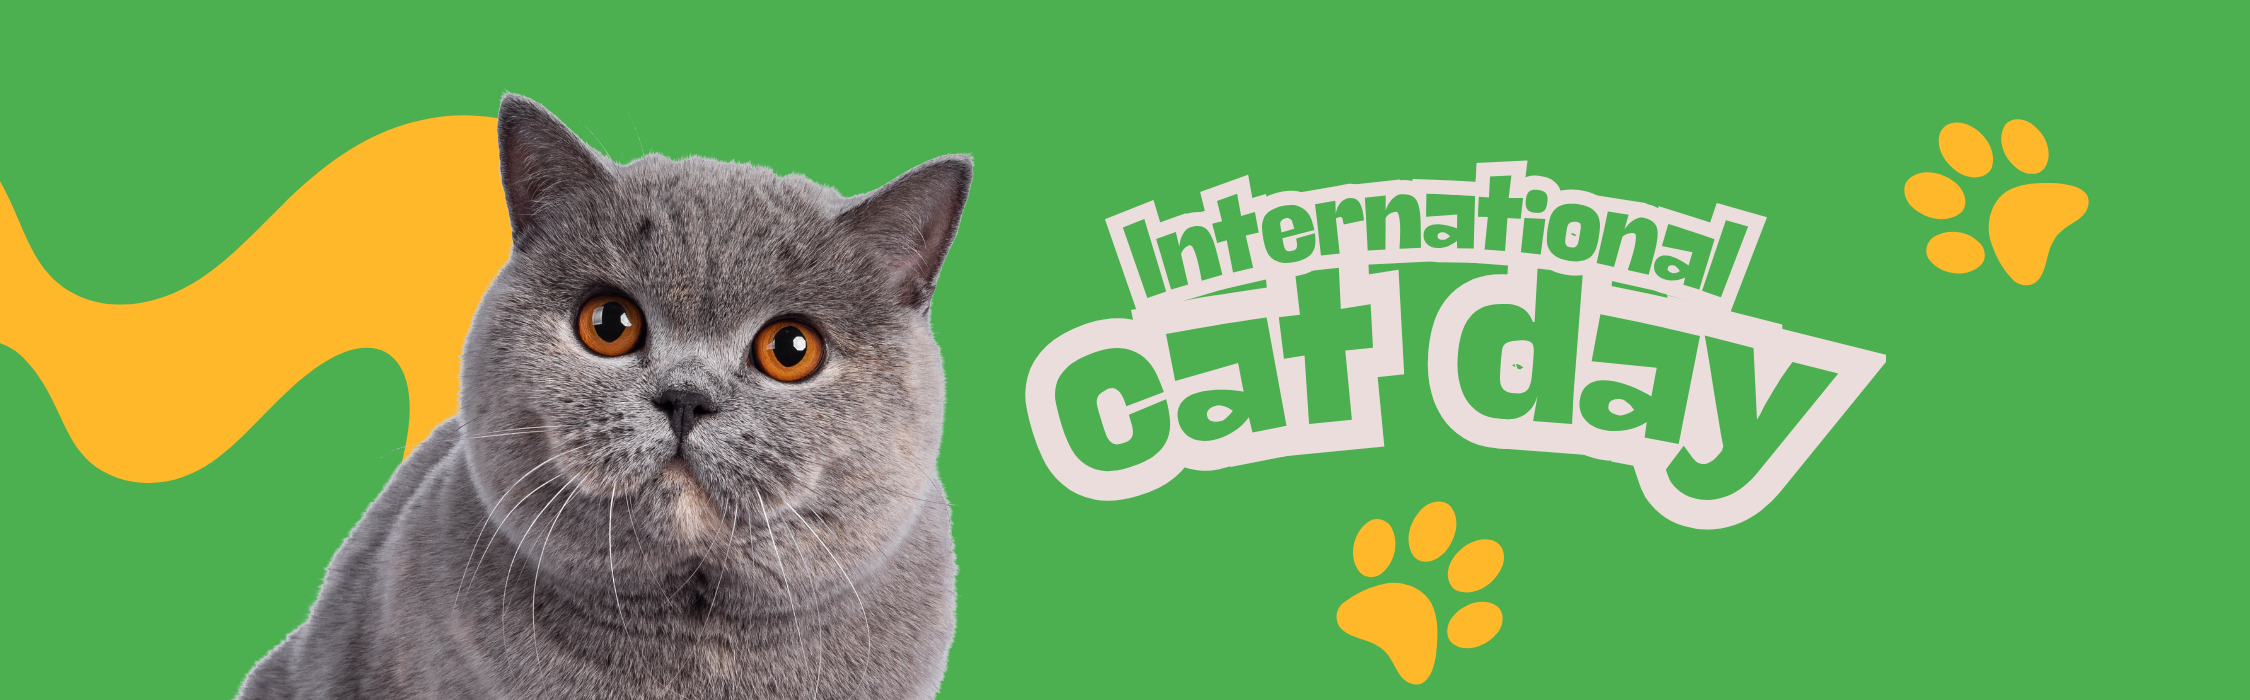
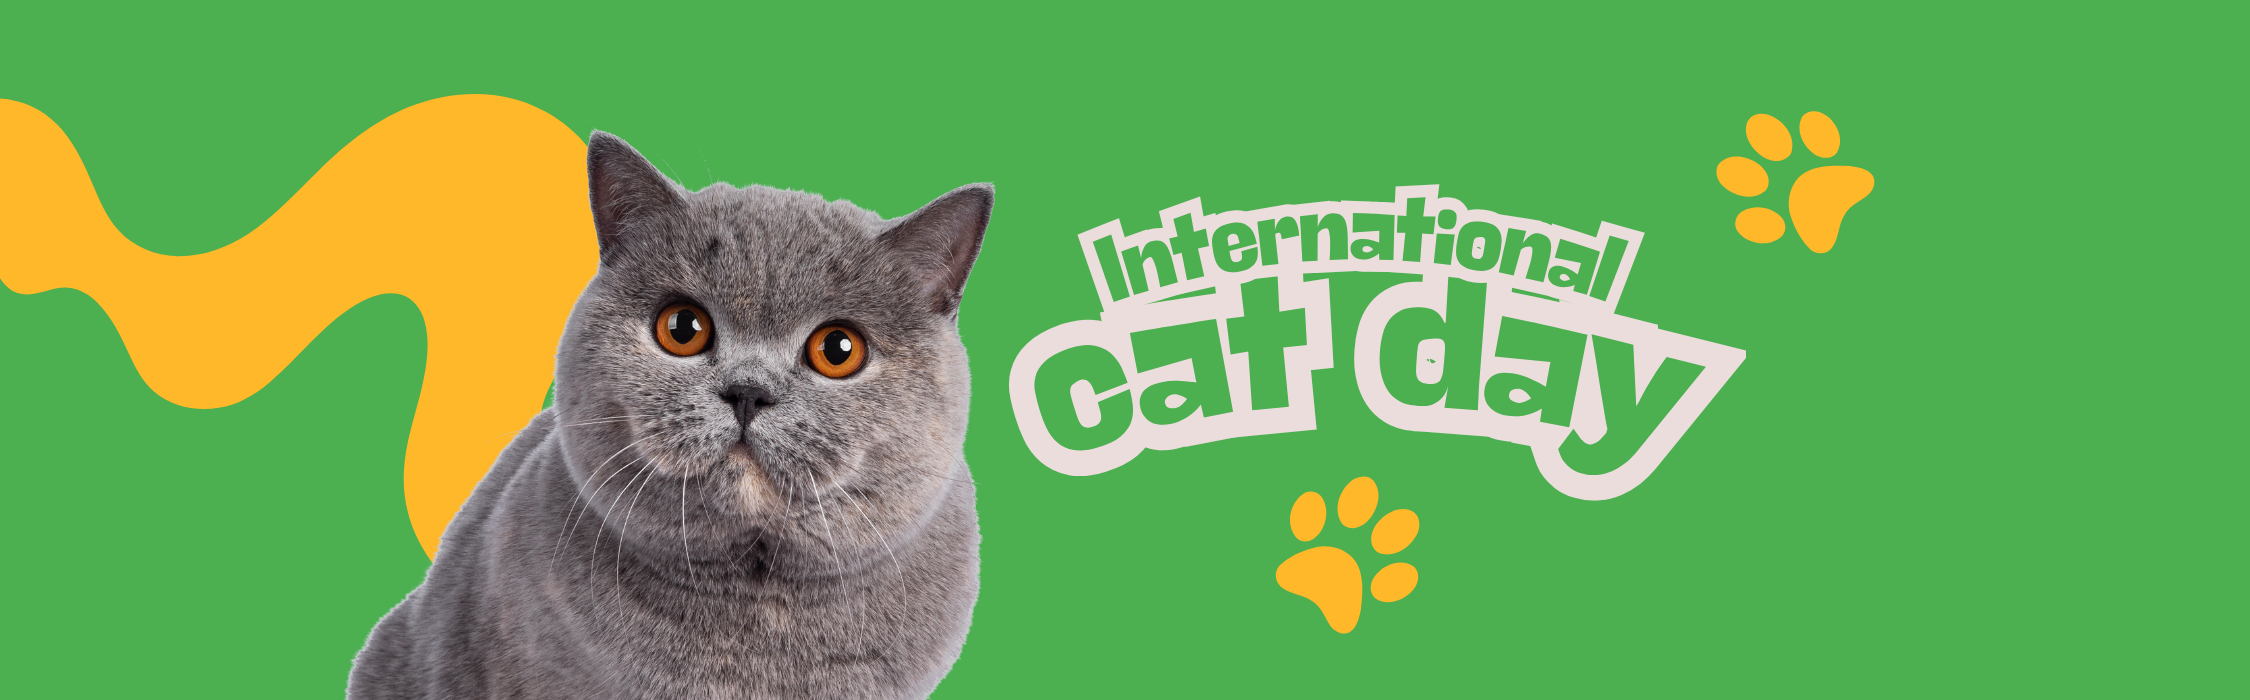
ajuste imagens carrossel

Changed region(s): [[0.0, 0.12, 0.9333, 1.0], [0.56, 0.69, 0.6844, 0.99]]

diff --git a/nova vida pet/nova vida pet/css/styles.css b/nova vida pet/nova vida pet/css/styles.css
@@ -59,6 +59,22 @@ body {
   font-family: 'Nunito', sans-serif;
   font-weight: 600;
   font-size: 28px;
+  padding: 6px 16px;
+  border-radius: 22px;
+  transition: background 0.2s, color 0.2s;
+}
+
+.menu a:hover {
+  background: rgba(255, 255, 255, 0.3);
+}
+
+/* Links brancos (headers rosas) ficam um pouco mais opacos no hover */
+.page-adocao .menu a:hover,
+.page-apadrinhar .menu a:hover,
+.page-adocaoanimal .menu a:hover,
+.page-apadrinharanimal .menu a:hover,
+.page-favoritos .menu a:hover {
+  background: rgba(255, 255, 255, 0.25);
 }
 
 .header-btns {
@@ -108,6 +124,21 @@ body {
 .page-adocaoanimal .header,
 .page-apadrinharanimal .header {
   background: linear-gradient(to right, #f06292 65%, #F6B347);
+}
+
+/* Header rosa → texto branco */
+.page-adocao .menu a,
+.page-apadrinhar .menu a,
+.page-adocaoanimal .menu a,
+.page-apadrinharanimal .menu a,
+.page-favoritos .menu a {
+  color: white;
+}
+
+/* Footer rosa → texto branco */
+.footer-rosa .footer-menu h3,
+.footer-rosa .footer-links a {
+  color: white;
 }
 
 .page-doacao .header {
